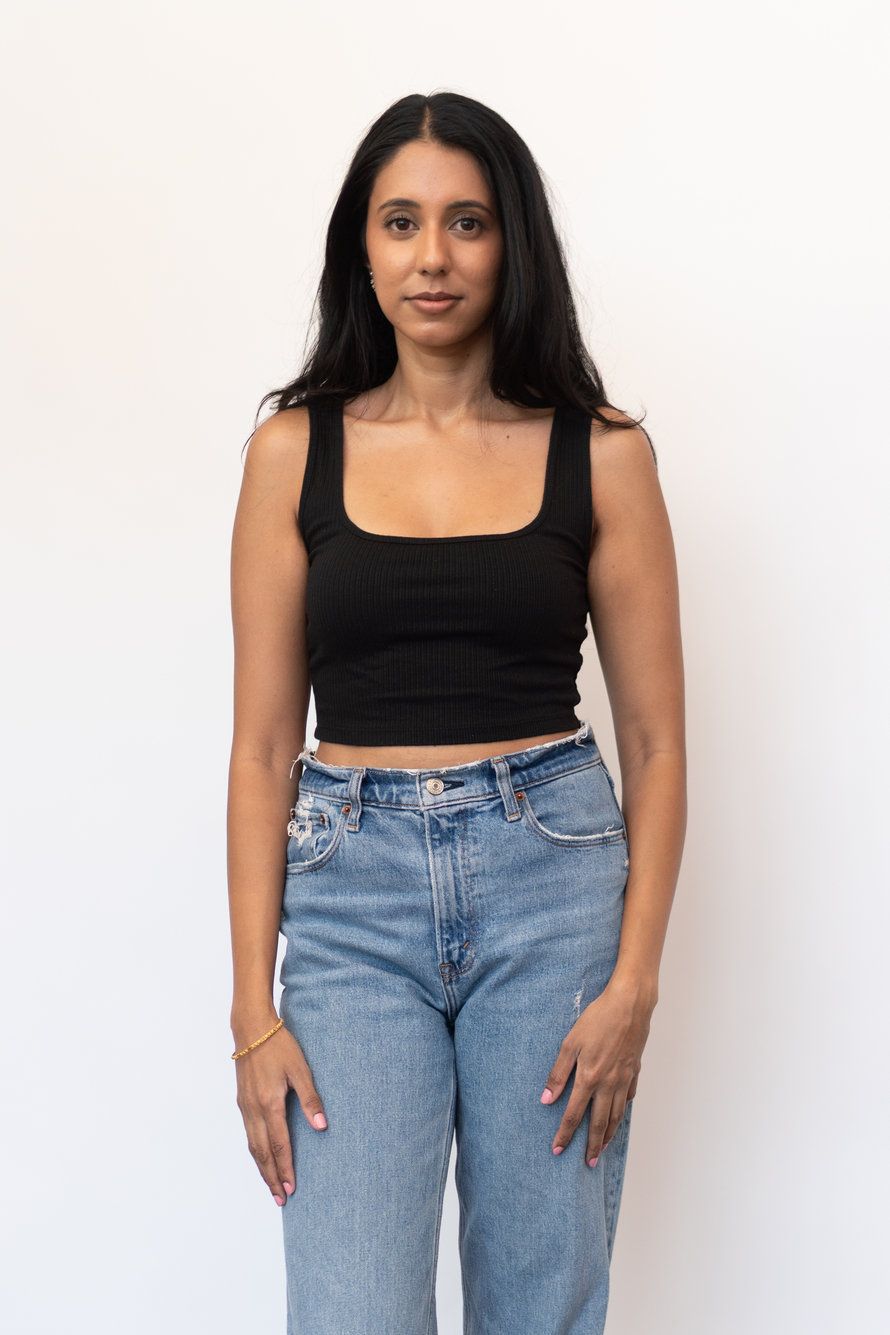
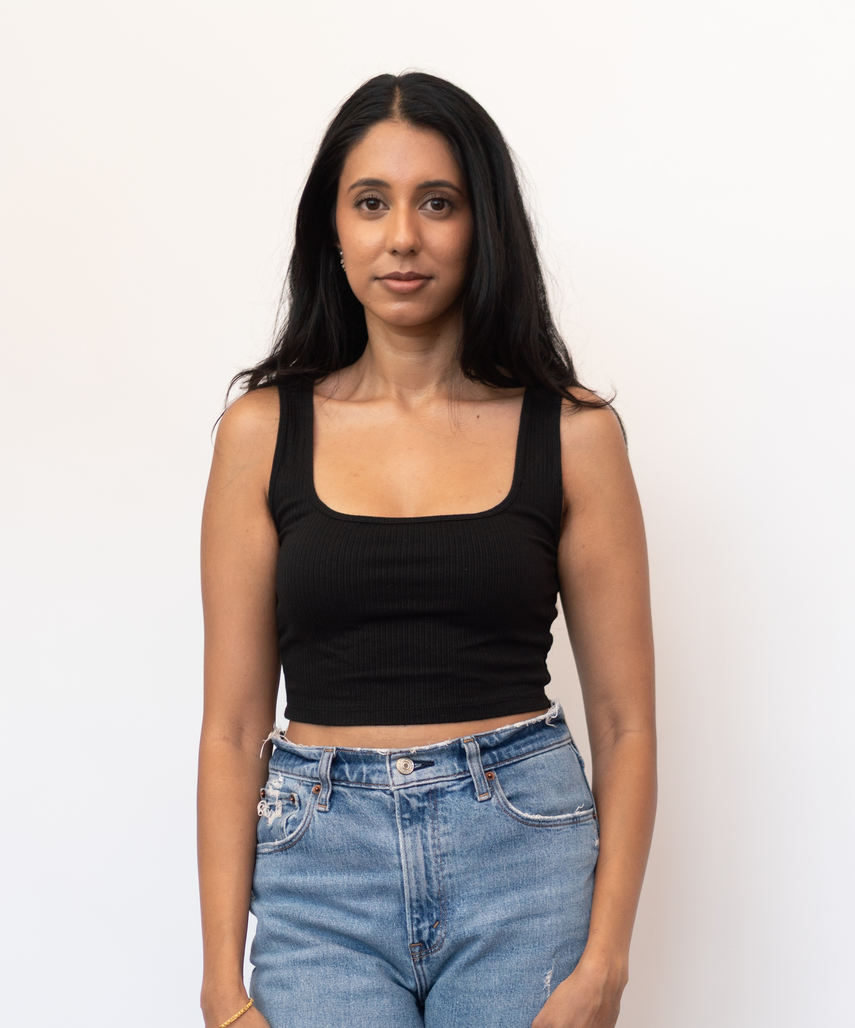
add event tracking and sitemap lastmod

diff --git a/comp-card.html b/comp-card.html
@@ -357,15 +357,98 @@
       text-transform: uppercase;
     }
 
-    /* ── Responsive ── */
-    @media screen and (max-width: 900px) {
-      body { padding: 1rem; }
+    /* ── Responsive: tablet ── */
+    @media screen and (max-width: 960px) {
+      body { padding: 1.5rem; gap: 1.5rem; }
       .print-btn { top: 1rem; right: 1rem; }
       .sheet { width: min(8.5in, 100%); height: auto; }
-      .sheet-1 { grid-template-rows: auto auto; }
-      .sheet-2 { grid-template-rows: auto auto; }
-      .hero-photo img { height: auto; }
+      .sheet-1 { padding: 0.4in; grid-template-rows: auto auto; gap: 0.2in; }
+      .sheet-2 { padding: 0.4in; grid-template-rows: auto auto; gap: 0.2in; }
+      .hero-photo { aspect-ratio: 2/3; }
       .measurements { grid-template-columns: repeat(4, 1fr); }
+    }
+
+    /* ── Responsive: mobile ── */
+    @media screen and (max-width: 600px) {
+      body {
+        padding: 0;
+        gap: 0;
+        background: var(--paper);
+        justify-content: flex-start;
+      }
+
+      .print-btn { display: none; }
+
+      .sheet {
+        width: 100%;
+        height: auto;
+        box-shadow: none;
+      }
+
+      .sheet-1 {
+        padding: 1.5rem 1.25rem 1.25rem;
+        grid-template-rows: auto auto;
+        gap: 1.1rem;
+        border-bottom: 1px solid var(--line);
+      }
+
+      .sheet-2 {
+        padding: 1.25rem 1.25rem 2rem;
+        grid-template-rows: auto auto;
+        gap: 1.1rem;
+      }
+
+      .header {
+        grid-template-columns: 1fr;
+        align-items: start;
+        gap: 0.6rem;
+        padding-bottom: 0.85rem;
+      }
+
+      .name-block h1 {
+        font-size: clamp(2.8rem, 13vw, 4rem);
+        line-height: 0.88;
+      }
+
+      .name-block p {
+        margin-top: 0.45rem;
+        font-size: 0.6rem;
+        letter-spacing: 0.13em;
+      }
+
+      .contact-block {
+        text-align: left;
+        font-size: 0.72rem;
+      }
+
+      .hero-photo {
+        aspect-ratio: 3/4;
+        height: auto;
+      }
+
+      .gallery {
+        gap: 0.4rem;
+      }
+
+      .gallery img {
+        aspect-ratio: 3/4;
+      }
+
+      .measurements {
+        grid-template-columns: repeat(4, 1fr);
+        padding-top: 0.85rem;
+        padding-bottom: 0;
+        gap: 0.6rem 0.5rem;
+      }
+
+      .measurement-label {
+        font-size: 0.52rem;
+        letter-spacing: 0.13em;
+      }
+
+      .measurement-value {
+        font-size: 0.95rem;
+      }
     }
 
     /* ── Print ── */

diff --git a/style.css b/style.css
@@ -68,7 +68,7 @@ body {
 /* ── HERO ── */
 #hero {
   position: relative;
-  height: 100vh;
+  height: 75vh;
   display: flex;
   align-items: flex-end;
   overflow: hidden;
@@ -78,11 +78,11 @@ body {
   inset: 0;
   background-size: cover;
   background-position: center top;
-  transform: scale(1.05);
+  transform: scale(1.18);
   animation: heroZoom 8s ease-out forwards;
 }
 @keyframes heroZoom {
-  to { transform: scale(1); }
+  to { transform: scale(1.12); }
 }
 .hero-overlay {
   position: absolute;
@@ -105,7 +105,7 @@ body {
   letter-spacing: 0.35em;
   text-transform: uppercase;
   color: var(--gold);
-  margin-bottom: 0.75rem;
+  margin-bottom: 2.5rem;
   opacity: 0;
   animation: fadeUp 1s 0.5s ease forwards;
 }
@@ -173,7 +173,7 @@ body {
   display: flex;
   justify-content: space-between;
   align-items: baseline;
-  padding: 1.5rem 0;
+  padding: 0.6rem 0;
   border-bottom: 1px solid rgba(255,255,255,0.06);
   gap: 2rem;
 }
@@ -194,8 +194,7 @@ body {
 }
 .photographer-credits {
   margin-top: 2.5rem;
-  padding-top: 1.5rem;
-  border-top: 1px solid rgba(255,255,255,0.06);
+  padding-top: 0;
 }
 .photographer-label {
   font-size: 0.58rem;
@@ -213,9 +212,10 @@ body {
   justify-content: space-between;
   align-items: baseline;
   gap: 2rem;
-  padding: 1.2rem 0;
+  padding: 0.6rem 0;
   border-bottom: 1px solid rgba(255,255,255,0.06);
 }
+.photographer-item:first-child { border-top: 1px solid rgba(255,255,255,0.06); }
 .photographer-name {
   font-family: var(--font-serif);
   font-size: 1.3rem;
@@ -538,7 +538,7 @@ body {
 
 /* ── CONTACT ── */
 #contact {
-  padding: 10rem 4rem;
+  padding: 3rem 4rem 6rem;
   background: var(--black);
   text-align: center;
 }

diff --git a/script.js b/script.js
@@ -1273,6 +1273,32 @@ document.addEventListener('keydown', (e) => {
   if (e.key === 'ArrowLeft')  showPrev();
 }, true);
 
+// ── Analytics event tracking ──────────────────────────────────────────────────
+function gaEvent(name, params) {
+  if (typeof gtag === 'function') gtag('event', name, params);
+}
+
+// Contact button clicks
+document.getElementById('contact-email').addEventListener('click', () => {
+  gaEvent('contact_click', { method: 'email' });
+});
+document.getElementById('social-instagram').addEventListener('click', () => {
+  gaEvent('contact_click', { method: 'instagram' });
+});
+
+// Comp card link click (nav)
+document.querySelectorAll('a[href="comp-card.html"]').forEach(el => {
+  el.addEventListener('click', () => gaEvent('comp_card_view'));
+});
+
+// Lightbox open — track which photo was viewed
+const _origOpenLightbox = openLightbox;
+openLightbox = function(index) {
+  _origOpenLightbox(index);
+  const file = SITE.photos[devGridState.order[index]]?.file?.split('/').pop() || String(index);
+  gaEvent('photo_view', { photo: file });
+};
+
 // ── Lightbox swipe (mobile)
 let touchStartX = 0;
 lightbox.addEventListener('touchstart', (e) => { touchStartX = e.touches[0].clientX; }, { passive: true });

diff --git a/config.js b/config.js
@@ -64,7 +64,7 @@ const SITE = {
     hips:      `35"`,
     dress:     `S`,
     shoe:      `8`,
-    hair:      `Brown`,
+    hair:      `Black`,
     eyes:      `Brown`,
   },
 
@@ -89,7 +89,7 @@ const SITE = {
   footerText: `© ${new Date().getFullYear()} Gopika Nair. All rights reserved.`,
 
   // ── Comp card
-  compHeroImage: "photos/PGN_6062.jpg",
+  compHeroImage: "photos/comp/hero_PGN_6062.jpg",
   compHeroPos:   "57% 0%",
   compPhotoPool: [
     "photos/comp/IMG_3468.jpg",
@@ -103,10 +103,10 @@ const SITE = {
     "photos/comp/IMG_3483.jpg",
   ],
   compPhotos: [
-    { file: "photos/comp/IMG_3475.jpg", pos: "center 12%" },
-    { file: "photos/comp/IMG_3483.jpg", pos: "center 18%" },
-    { file: "photos/comp/IMG_3477.jpg", pos: "44% 10%" },
-    { file: "photos/comp/IMG_3470.jpg", pos: "center 10%" },
+    { file: "photos/comp/IMG_3470.jpg", pos: "center center" },
+    { file: "photos/comp/IMG_3475.jpg", pos: "center center" },
+    { file: "photos/comp/IMG_3483.jpg", pos: "center center" },
+    { file: "photos/comp/IMG_3477.jpg", pos: "center center" },
   ],
 
   // ── Portfolio images

diff --git a/index.html b/index.html
@@ -36,7 +36,7 @@
   <link rel="preconnect" href="https://fonts.googleapis.com">
   <link rel="preconnect" href="https://fonts.gstatic.com" crossorigin>
   <link href="https://fonts.googleapis.com/css2?family=Cormorant+Garamond:ital,wght@0,300;0,400;1,300;1,400&family=Montserrat:wght@200;300;400&display=swap" rel="stylesheet">
-  <link rel="stylesheet" href="style.css?v=20260424-23">
+  <link rel="stylesheet" href="style.css?v=20260424-28">
 
   <!-- Google Analytics -->
   <script async src="https://www.googletagmanager.com/gtag/js?id=G-2TZHJKDNQW"></script>
@@ -180,8 +180,8 @@
     </div>
   </div>
 
-  <script src="config.js?v=20260424-24"></script>
-  <script src="grid-layout.js?v=20260424-24"></script>
-  <script src="script.js?v=20260424-24"></script>
+  <script src="config.js?v=20260424-29"></script>
+  <script src="grid-layout.js?v=20260424-29"></script>
+  <script src="script.js?v=20260424-29"></script>
 </body>
 </html>

diff --git a/grid-layout.js b/grid-layout.js
@@ -74,26 +74,26 @@ window.GRID_LAYOUT = {
     "5": "center 6%",
     "6": "42.2% 0.0%",
     "7": "center 3%",
-    "8": "47.2% 100.0%",
-    "9": "42.0% 99.7%",
+    "8": "center 17%",
+    "9": "center 30%",
     "10": "41% 10%",
     "11": "center 10%",
     "12": "42% 27%",
-    "13": "46.0% 25.0%",
+    "13": "78% 27%",
     "14": "center 12%",
     "15": "center 12%",
     "16": "30.0% 11.0%",
     "17": "center 14%",
-    "18": "98.5% 26.0%",
+    "18": "center 21%",
     "19": "center 14%",
     "20": "50.0% 0.0%",
     "21": "center 10%",
-    "22": "center 12%",
+    "22": "center 5%",
     "23": "50.0% 4.0%",
     "24": "center 12%",
     "25": "center 10%",
-    "26": "50.0% 16.0%",
-    "27": "center 15%",
+    "26": "center 9%",
+    "27": "center 5%",
     "28": "center 12%",
     "29": "38.0% 10.0%",
     "30": "30.0% 10.0%"

diff --git a/comp-layout.js b/comp-layout.js
@@ -1,6 +1,16 @@
 window.COMP_LAYOUT = {
-  "heroPos": null,
-  "heroImage": null,
-  "photoPositions": {},
-  "photoFiles": {}
+  "heroPos": "57% 0%",
+  "heroImage": "photos/PGN_6062.jpg",
+  "photoPositions": {
+    "0": "center center",
+    "1": "center center",
+    "2": "center center",
+    "3": "39% 0%"
+  },
+  "photoFiles": {
+    "0": "photos/comp/IMG_3470.jpg",
+    "1": "photos/comp/IMG_3475.jpg",
+    "2": "photos/comp/IMG_3483.jpg",
+    "3": "photos/comp/IMG_3477.jpg"
+  }
 };
